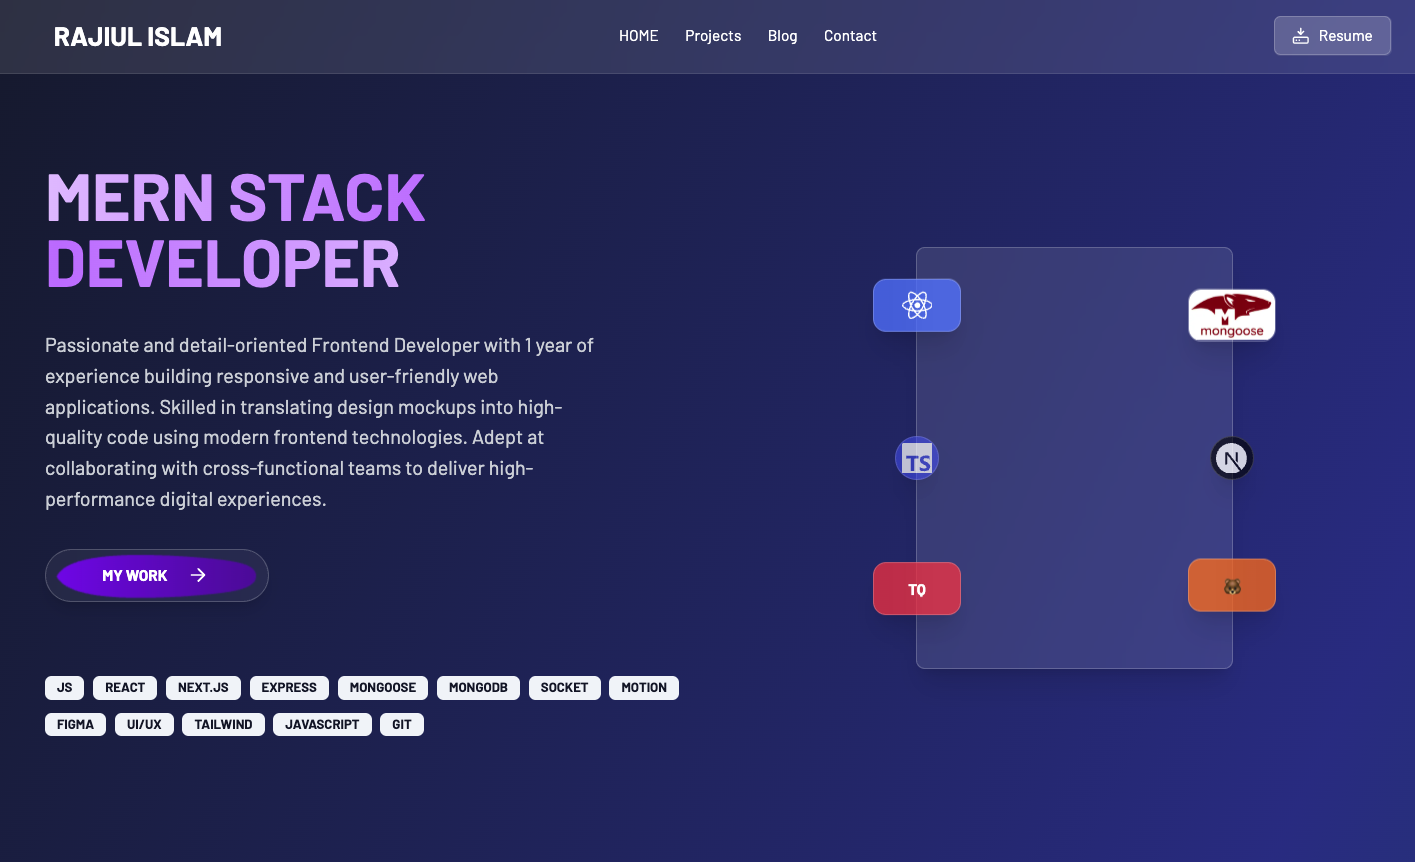
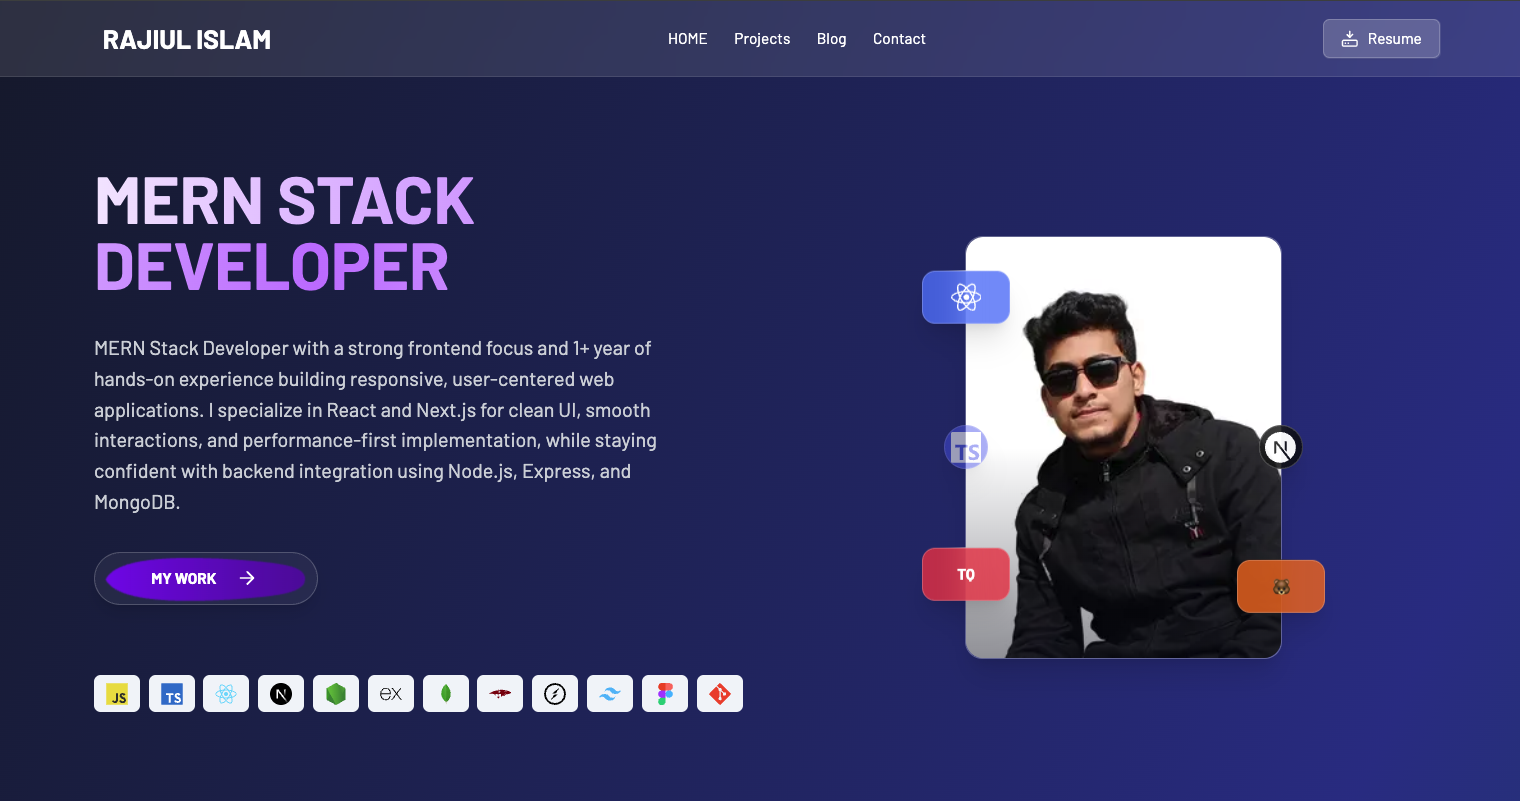
feat: enhance project data and UI components
- Updated project data structure to include new personal projects with detailed features and links.
- Changed the category of the existing portfolio project from 'small' to 'personal'.
- Improved the hero section animations and tech stack display with icons for better visual appeal.
- Refactored project card component to conditionally display GitHub links for frontend and backend based on project type.
- Adjusted project section tabs to reflect the new 'personal' category and improved layout for better user experience.

diff --git a/src/app/(common)/home/hero-section.tsx b/src/app/(common)/home/hero-section.tsx
@@ -43,43 +43,102 @@ const HeroSection = () => {
         {/* Tech Stack */}
         <motion.div
           className="flex flex-wrap gap-2 pt-4 sm:pt-8 justify-center lg:justify-start"
-          initial={{ opacity: 0, x: 100 }}
-          animate={{ opacity: 1, x: 0 }}
-          transition={{
-            duration: 0.8,
-            ease: 'easeOut',
-            staggerChildren: 0.1,
+          initial="hidden"
+          animate="visible"
+          variants={{
+            hidden: { opacity: 0, y: 10 },
+            visible: {
+              opacity: 1,
+              y: 0,
+              transition: { staggerChildren: 0.06, delayChildren: 0.15 },
+            },
           }}
         >
           {[
-            'JS',
-            'TS',
-            'REACT',
-            'NEXT.JS',
-            'EXPRESS',
-            'MONGOOSE',
-            'MONGODB',
-            'SOCKET',
-            'MOTION',
-            'FIGMA',
-            'UI/UX',
-            'Lexical Editor',
-            'TAILWIND',
-            'JAVASCRIPT',
-            'GIT',
-          ].map((tech, index) => (
+            {
+              label: 'JavaScript',
+              src: 'https://cdn.jsdelivr.net/gh/devicons/devicon/icons/javascript/javascript-original.svg',
+            },
+            {
+              label: 'TypeScript',
+              src: 'https://cdn.jsdelivr.net/gh/devicons/devicon/icons/typescript/typescript-original.svg',
+            },
+            {
+              label: 'React',
+              src: 'https://cdn.jsdelivr.net/gh/devicons/devicon/icons/react/react-original.svg',
+            },
+            {
+              label: 'Next.js',
+              src: 'https://cdn.jsdelivr.net/gh/devicons/devicon/icons/nextjs/nextjs-original.svg',
+            },
+            {
+              label: 'Node.js',
+              src: 'https://cdn.jsdelivr.net/gh/devicons/devicon/icons/nodejs/nodejs-original.svg',
+            },
+            {
+              label: 'Express',
+              src: 'https://cdn.jsdelivr.net/gh/devicons/devicon/icons/express/express-original.svg',
+            },
+            {
+              label: 'MongoDB',
+              src: 'https://cdn.jsdelivr.net/gh/devicons/devicon/icons/mongodb/mongodb-original.svg',
+            },
+            {
+              label: 'Mongoose',
+              src: 'https://cdn.jsdelivr.net/gh/devicons/devicon/icons/mongoose/mongoose-original.svg',
+            },
+            {
+              label: 'Socket.io',
+              src: 'https://cdn.jsdelivr.net/gh/devicons/devicon/icons/socketio/socketio-original.svg',
+            },
+            {
+              label: 'Tailwind CSS',
+              src: 'https://cdn.jsdelivr.net/gh/devicons/devicon/icons/tailwindcss/tailwindcss-original.svg',
+            },
+            {
+              label: 'Figma',
+              src: 'https://cdn.jsdelivr.net/gh/devicons/devicon/icons/figma/figma-original.svg',
+            },
+            {
+              label: 'Git',
+              src: 'https://cdn.jsdelivr.net/gh/devicons/devicon/icons/git/git-original.svg',
+            },
+          ].map((tech) => (
             <motion.div
-              key={tech}
-              initial={{ opacity: 0, x: 100 }}
-              animate={{ opacity: 1, x: 0 }}
-              transition={{
-                duration: 0.5,
-                delay: index * 0.05,
-                ease: 'easeOut',
+              key={tech.label}
+              variants={{
+                hidden: { opacity: 0, x: 24, y: 6, scale: 0.98, filter: 'blur(4px)' },
+                visible: {
+                  opacity: 1,
+                  x: 0,
+                  y: 0,
+                  scale: 1,
+                  filter: 'blur(0px)',
+                  transition: { duration: 0.55, ease: 'easeOut' },
+                },
+              }}
+              whileHover={{
+                scale: 1.03,
+                y: -2,
+                transition: { duration: 0.2, ease: 'easeOut' },
               }}
             >
-              <Badge variant="secondary" className="cursor-pointer">
-                {tech}
+              <Badge
+                variant="secondary"
+                className="cursor-pointer px-2.5 py-1.5"
+              >
+                <span className="flex items-center gap-2" title={tech.label}>
+                  <span className="relative h-4 w-4 sm:h-5 sm:w-5">
+                    <Image
+                      src={tech.src}
+                      alt={tech.label}
+                      fill
+                      className="object-contain"
+                      sizes="20px"
+                    />
+                  </span>
+                  <span className="sr-only">{tech.label}</span>
+                </span>
               </Badge>
             </motion.div>
           ))}

diff --git a/src/app/(common)/home/project-section.tsx b/src/app/(common)/home/project-section.tsx
@@ -1,7 +1,7 @@
 'use client';
 
 import { useState } from 'react';
-import { motion, AnimatePresence } from 'framer-motion';
+import { AnimatePresence, motion } from 'framer-motion';
 import { Tabs, TabsContent, TabsList, TabsTrigger } from '@/components/ui/tabs';
 import ProjectCard from './project-card';
 import EmptyState from './enpty-state';
@@ -11,17 +11,15 @@ import { projectsData } from '@/projectData';
 // Project data structure
 
 const tabStyle =
-  'relative data-[state=active]:text-primary text-white/60 rounded-lg py-3 transition-all duration-300 hover:text-white/80';
+  'relative shrink-0 whitespace-nowrap px-4 py-3 data-[state=active]:text-primary text-white/60 rounded-lg transition-all duration-300 hover:text-white/80';
 
 const ProjectSection = () => {
   const [activeTab, setActiveTab] = useState<
-    'all' | 'small' | 'medium' | 'large'
-  >('all');
+    'personal' | 'small' | 'medium' | 'large'
+  >('personal');
 
   const filteredProjects =
-    activeTab === 'all'
-      ? projectsData
-      : projectsData.filter((project) => project.category === activeTab);
+    projectsData.filter((project) => project.category === activeTab);
 
   const tabVariants = {
     hidden: { opacity: 0 },
@@ -100,17 +98,17 @@ const ProjectSection = () => {
         <Tabs
           value={activeTab}
           onValueChange={(value) =>
-            setActiveTab(value as 'all' | 'small' | 'medium' | 'large')
+            setActiveTab(value as 'personal' | 'small' | 'medium' | 'large')
           }
           className="w-full"
         >
           {/* Tabs List */}
           <TabsList
-            className="relative grid w-full max-w-lg mx-auto grid-cols-4 mb-12 bg-white/10 backdrop-blur-lg border border-white/20 p-1 rounded-xl h-auto"
+            className="relative flex w-full max-w-fit mx-auto gap-1 mb-12 bg-white/10 backdrop-blur-lg border border-white/20 p-1 rounded-xl h-auto overflow-x-auto"
             aria-label="Project size categories"
           >
-            <TabsTrigger value="all" className={tabStyle}>
-              {activeTab === 'all' && (
+            <TabsTrigger value="personal" className={tabStyle}>
+              {activeTab === 'personal' && (
                 <motion.div
                   layoutId="activeTab"
                   className="absolute inset-0 bg-white/20 rounded-lg shadow-lg"
@@ -121,7 +119,7 @@ const ProjectSection = () => {
                   }}
                 />
               )}
-              <span className="relative z-10">All</span>
+              <span className="relative z-10">Personal</span>
             </TabsTrigger>
             <TabsTrigger value="small" className={tabStyle}>
               {activeTab === 'small' && (
@@ -168,7 +166,7 @@ const ProjectSection = () => {
           </TabsList>
 
           {/* Tab Contents */}
-          {(['all', 'small', 'medium', 'large'] as const).map((category) => (
+          {(['personal', 'small', 'medium', 'large'] as const).map((category) => (
             <TabsContent
               key={category}
               value={category}
@@ -210,10 +208,7 @@ const ProjectSection = () => {
                     >
                       <EmptyState
                         category={
-                          category === 'all'
-                            ? 'All'
-                            : category.charAt(0).toUpperCase() +
-                              category.slice(1)
+                          category.charAt(0).toUpperCase() + category.slice(1)
                         }
                       />
                     </motion.div>

diff --git a/src/app/(common)/home/project-card.tsx b/src/app/(common)/home/project-card.tsx
@@ -12,11 +12,21 @@ import {
   DialogTrigger,
 } from '@/components/ui/dialog';
 import { Project } from '@/type/front/project-data-type';
-import { Globe, Server } from 'lucide-react';
+import { Github, Globe, Server } from 'lucide-react';
 import Link from 'next/link';
 import { Suspense } from 'react';
 
 const ProjectCard = ({ project }: { project: Project }) => {
+  const isPersonal = project.category === 'personal';
+  const githubFrontend =
+    isPersonal && project.githubFrontendLink && project.githubFrontendLink !== '#'
+      ? project.githubFrontendLink
+      : undefined;
+  const githubBackend =
+    isPersonal && project.githubBackendLink && project.githubBackendLink !== '#'
+      ? project.githubBackendLink
+      : undefined;
+
   return (
     <div
       className="group relative bg-white/10 backdrop-blur-lg rounded-xl overflow-hidden border border-white/20 hover:border-white/40 hover:shadow-2xl hover:shadow-blue-500/20 transition-all duration-300"
@@ -61,7 +71,7 @@ const ProjectCard = ({ project }: { project: Project }) => {
         </div>
 
         {/* Links */}
-        <div className="flex gap-3 pt-4 border-t border-white/10">
+        <div className="flex flex-wrap gap-3 pt-4 border-t border-white/10">
           {project.clientLink && (
             <Button
               asChild
@@ -80,6 +90,37 @@ const ProjectCard = ({ project }: { project: Project }) => {
               </Link>
             </Button>
           )}
+
+          {githubFrontend && (
+            <Button
+              asChild
+              variant="outline"
+              size="sm"
+              className="flex-1 bg-white/5 border-white/20 hover:bg-white/10 hover:border-white/40 text-white transition-all"
+              aria-label={`View ${project.title} frontend source code`}
+            >
+              <Link href={githubFrontend} target="_blank" rel="noopener noreferrer">
+                <Github className="w-4 h-4 mr-2" aria-hidden="true" />
+                Frontend
+              </Link>
+            </Button>
+          )}
+
+          {githubBackend && (
+            <Button
+              asChild
+              variant="outline"
+              size="sm"
+              className="flex-1 bg-white/5 border-white/20 hover:bg-white/10 hover:border-white/40 text-white transition-all"
+              aria-label={`View ${project.title} backend source code`}
+            >
+              <Link href={githubBackend} target="_blank" rel="noopener noreferrer">
+                <Github className="w-4 h-4 mr-2" aria-hidden="true" />
+                Backend
+              </Link>
+            </Button>
+          )}
+
           <Dialog>
             <DialogTrigger asChild>
               <Button

diff --git a/src/projectData.ts b/src/projectData.ts
@@ -6,7 +6,7 @@ export const projectsData: Project[] = [
     title: 'Portfolio Website',
     description:
       'Modern personal portfolio with responsive layout, animations, and project showcase.',
-    category: 'small',
+    category: 'personal',
     image: '/images/project/portfolio.png',
     clientLink: 'https://rajiul-portfolio.vercel.app',
     serverLink: 'https://github.com/example/portfolio',
@@ -375,4 +375,57 @@ export const projectsData: Project[] = [
       },
     ],
   }
+  ,
+  {
+    id: 'p-1',
+    title: 'Landing Page UI (Assignment)',
+    description:
+      'A clean responsive landing page built with modern UI, reusable components, and smooth interactions.',
+    category: 'personal',
+    image: '/images/project/landigpage.png',
+    githubFrontendLink: 'https://github.com/example/landing-frontend',
+    clientLink: 'https://landing-page-assignment-beta.vercel.app',
+
+    tags: ['Next.js', 'TypeScript', 'Tailwind CSS', 'shadcn/ui'],
+    features: [
+      {
+        title: 'Responsive layout',
+        description: 'Mobile-first layout that scales nicely across devices.',
+      },
+      {
+        title: 'Reusable sections',
+        description:
+          'Hero, features, pricing, and CTA components designed for reuse.',
+      },
+      {
+        title: 'Polished UI',
+        description: 'Glassmorphism styling and consistent spacing system.',
+      },
+    ],
+  },
+
+  {
+    id: 'p-3',
+    title: 'E-Commerce API (Backend)',
+    description:
+      'A REST API for products, orders, auth, and roles with validation and secure routes.',
+    category: 'personal',
+    image: '/images/project/ecommerce-home.png',
+    githubBackendLink: 'https://github.com/example/ecommerce-api-backend',
+    tags: ['Node.js', 'Express', 'MongoDB', 'Mongoose', 'JWT'],
+    features: [
+      {
+        title: 'Auth & roles',
+        description: 'JWT auth with role-based access for admin/user routes.',
+      },
+      {
+        title: 'Validation',
+        description: 'Request validation and predictable error responses.',
+      },
+      {
+        title: 'Orders & products',
+        description: 'Endpoints for product catalog and order lifecycle.',
+      },
+    ],
+  },
 ];

diff --git a/src/type/front/project-data-type.ts b/src/type/front/project-data-type.ts
@@ -2,8 +2,10 @@ export interface Project {
   id: string;
   title: string;
   description: string;
-  category: 'small' | 'medium' | 'large';
+  category: 'small' | 'medium' | 'large' | 'personal';
   image: string;
+  githubFrontendLink?: string;
+  githubBackendLink?: string;
   clientLink?: string;
   serverLink?: string;
   tags: string[];
